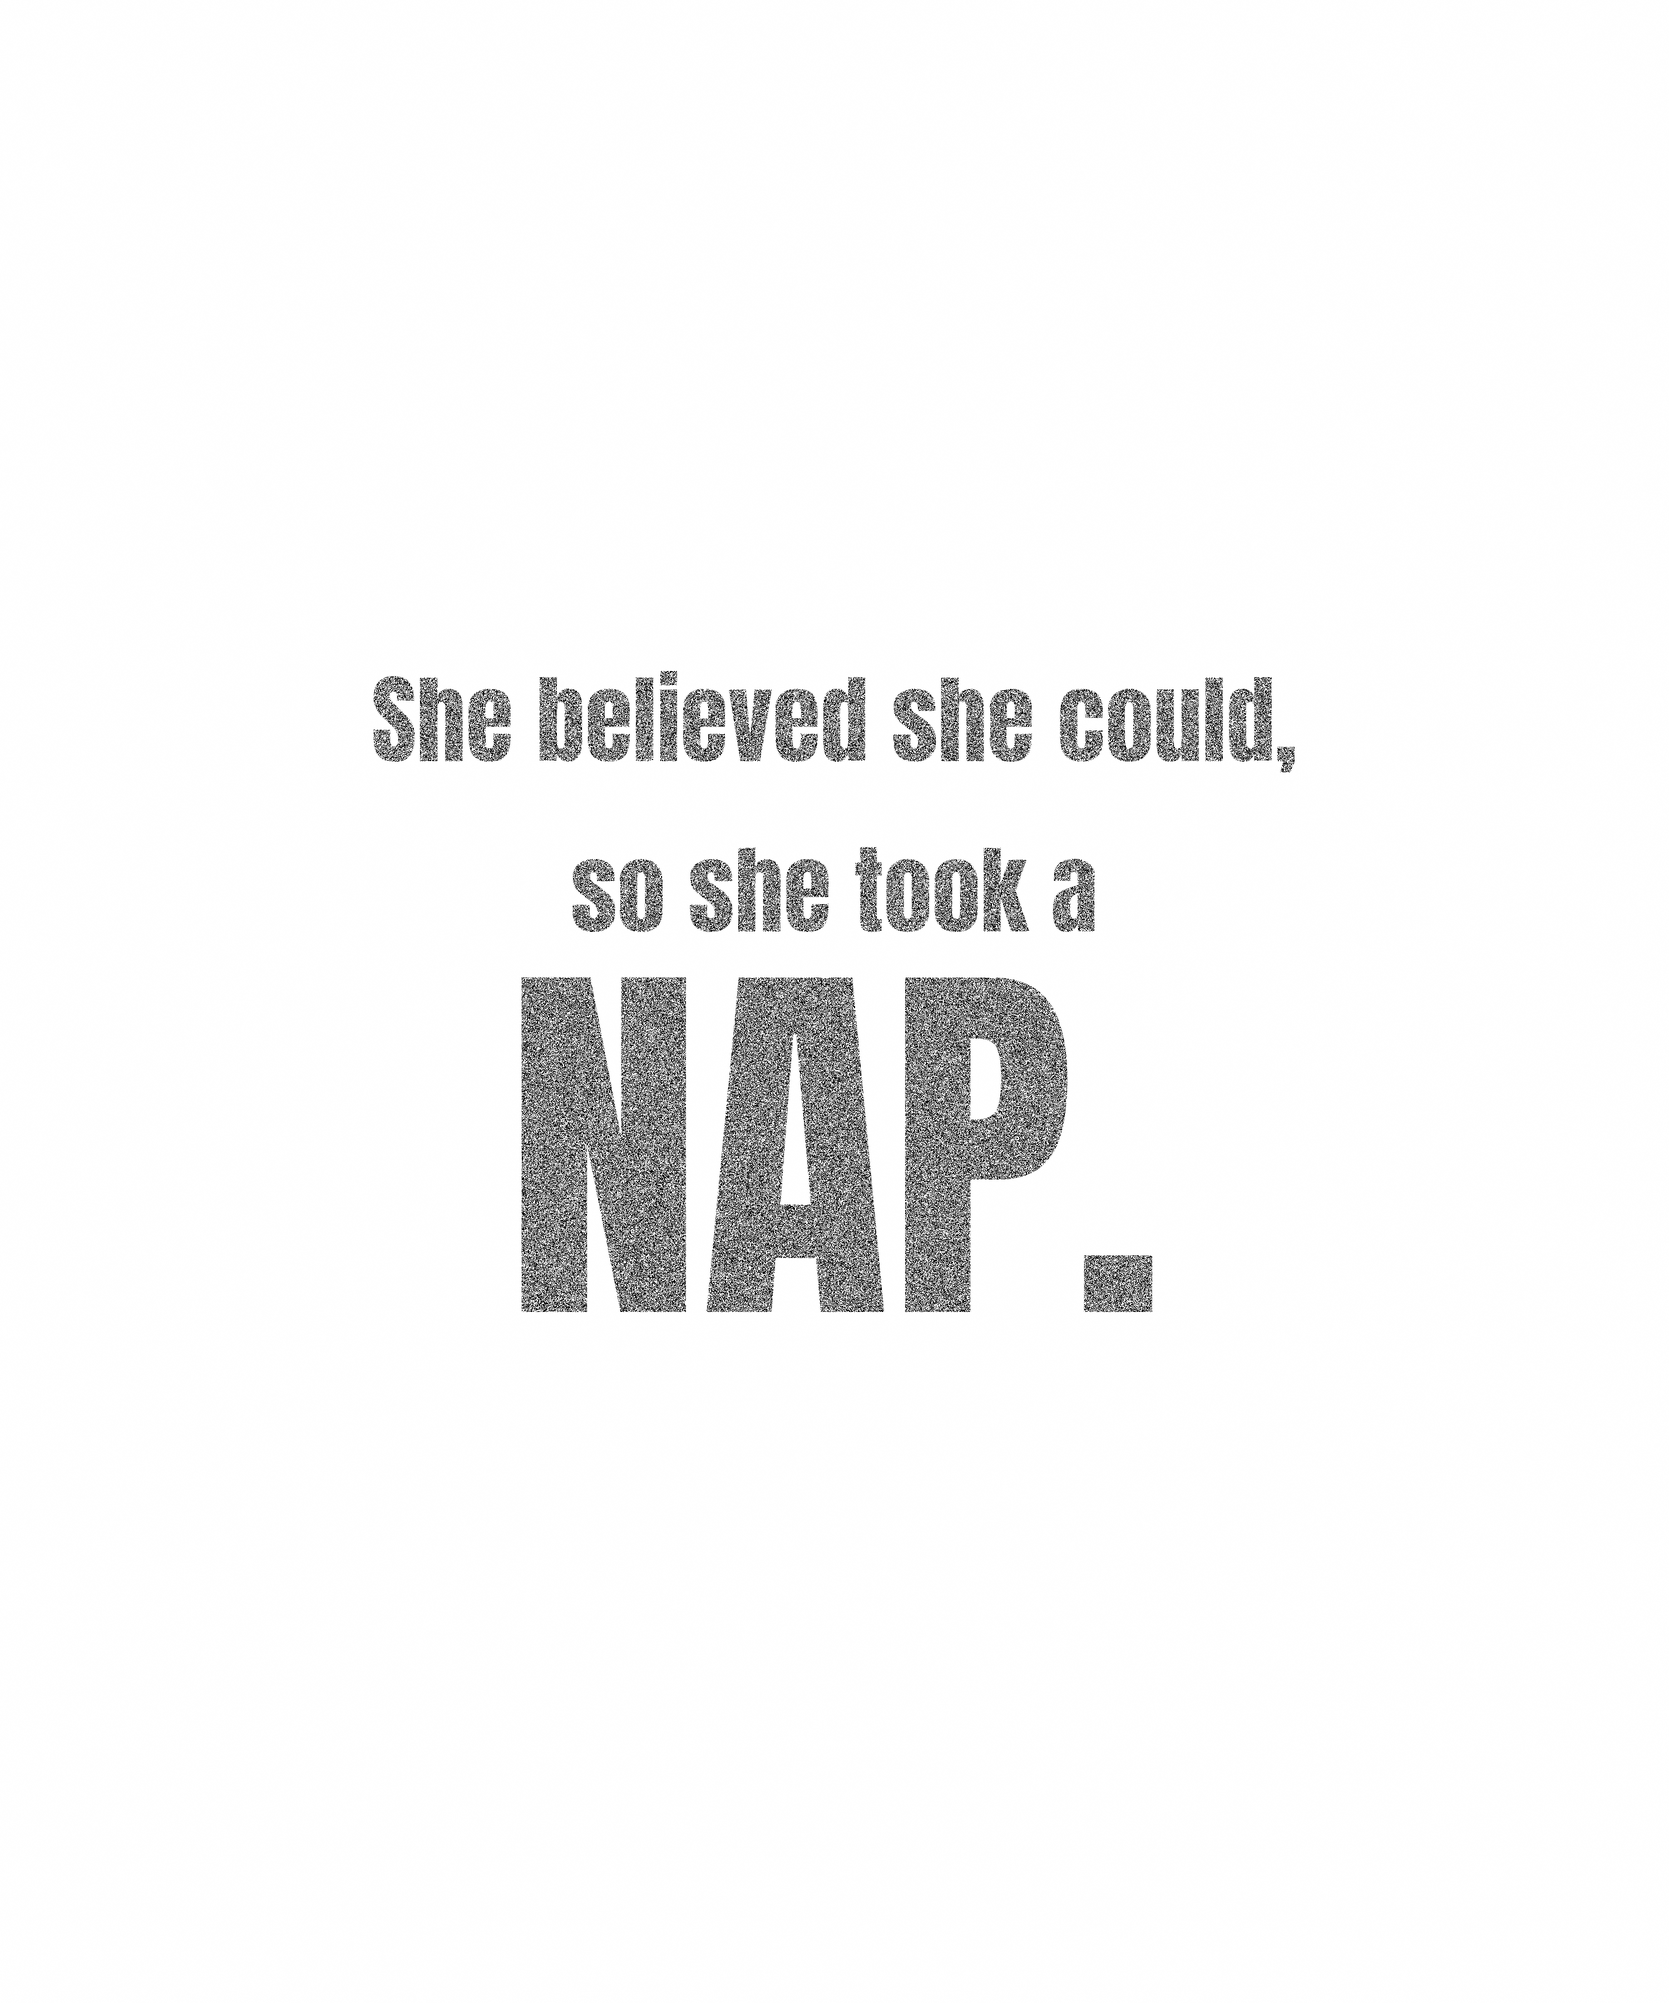
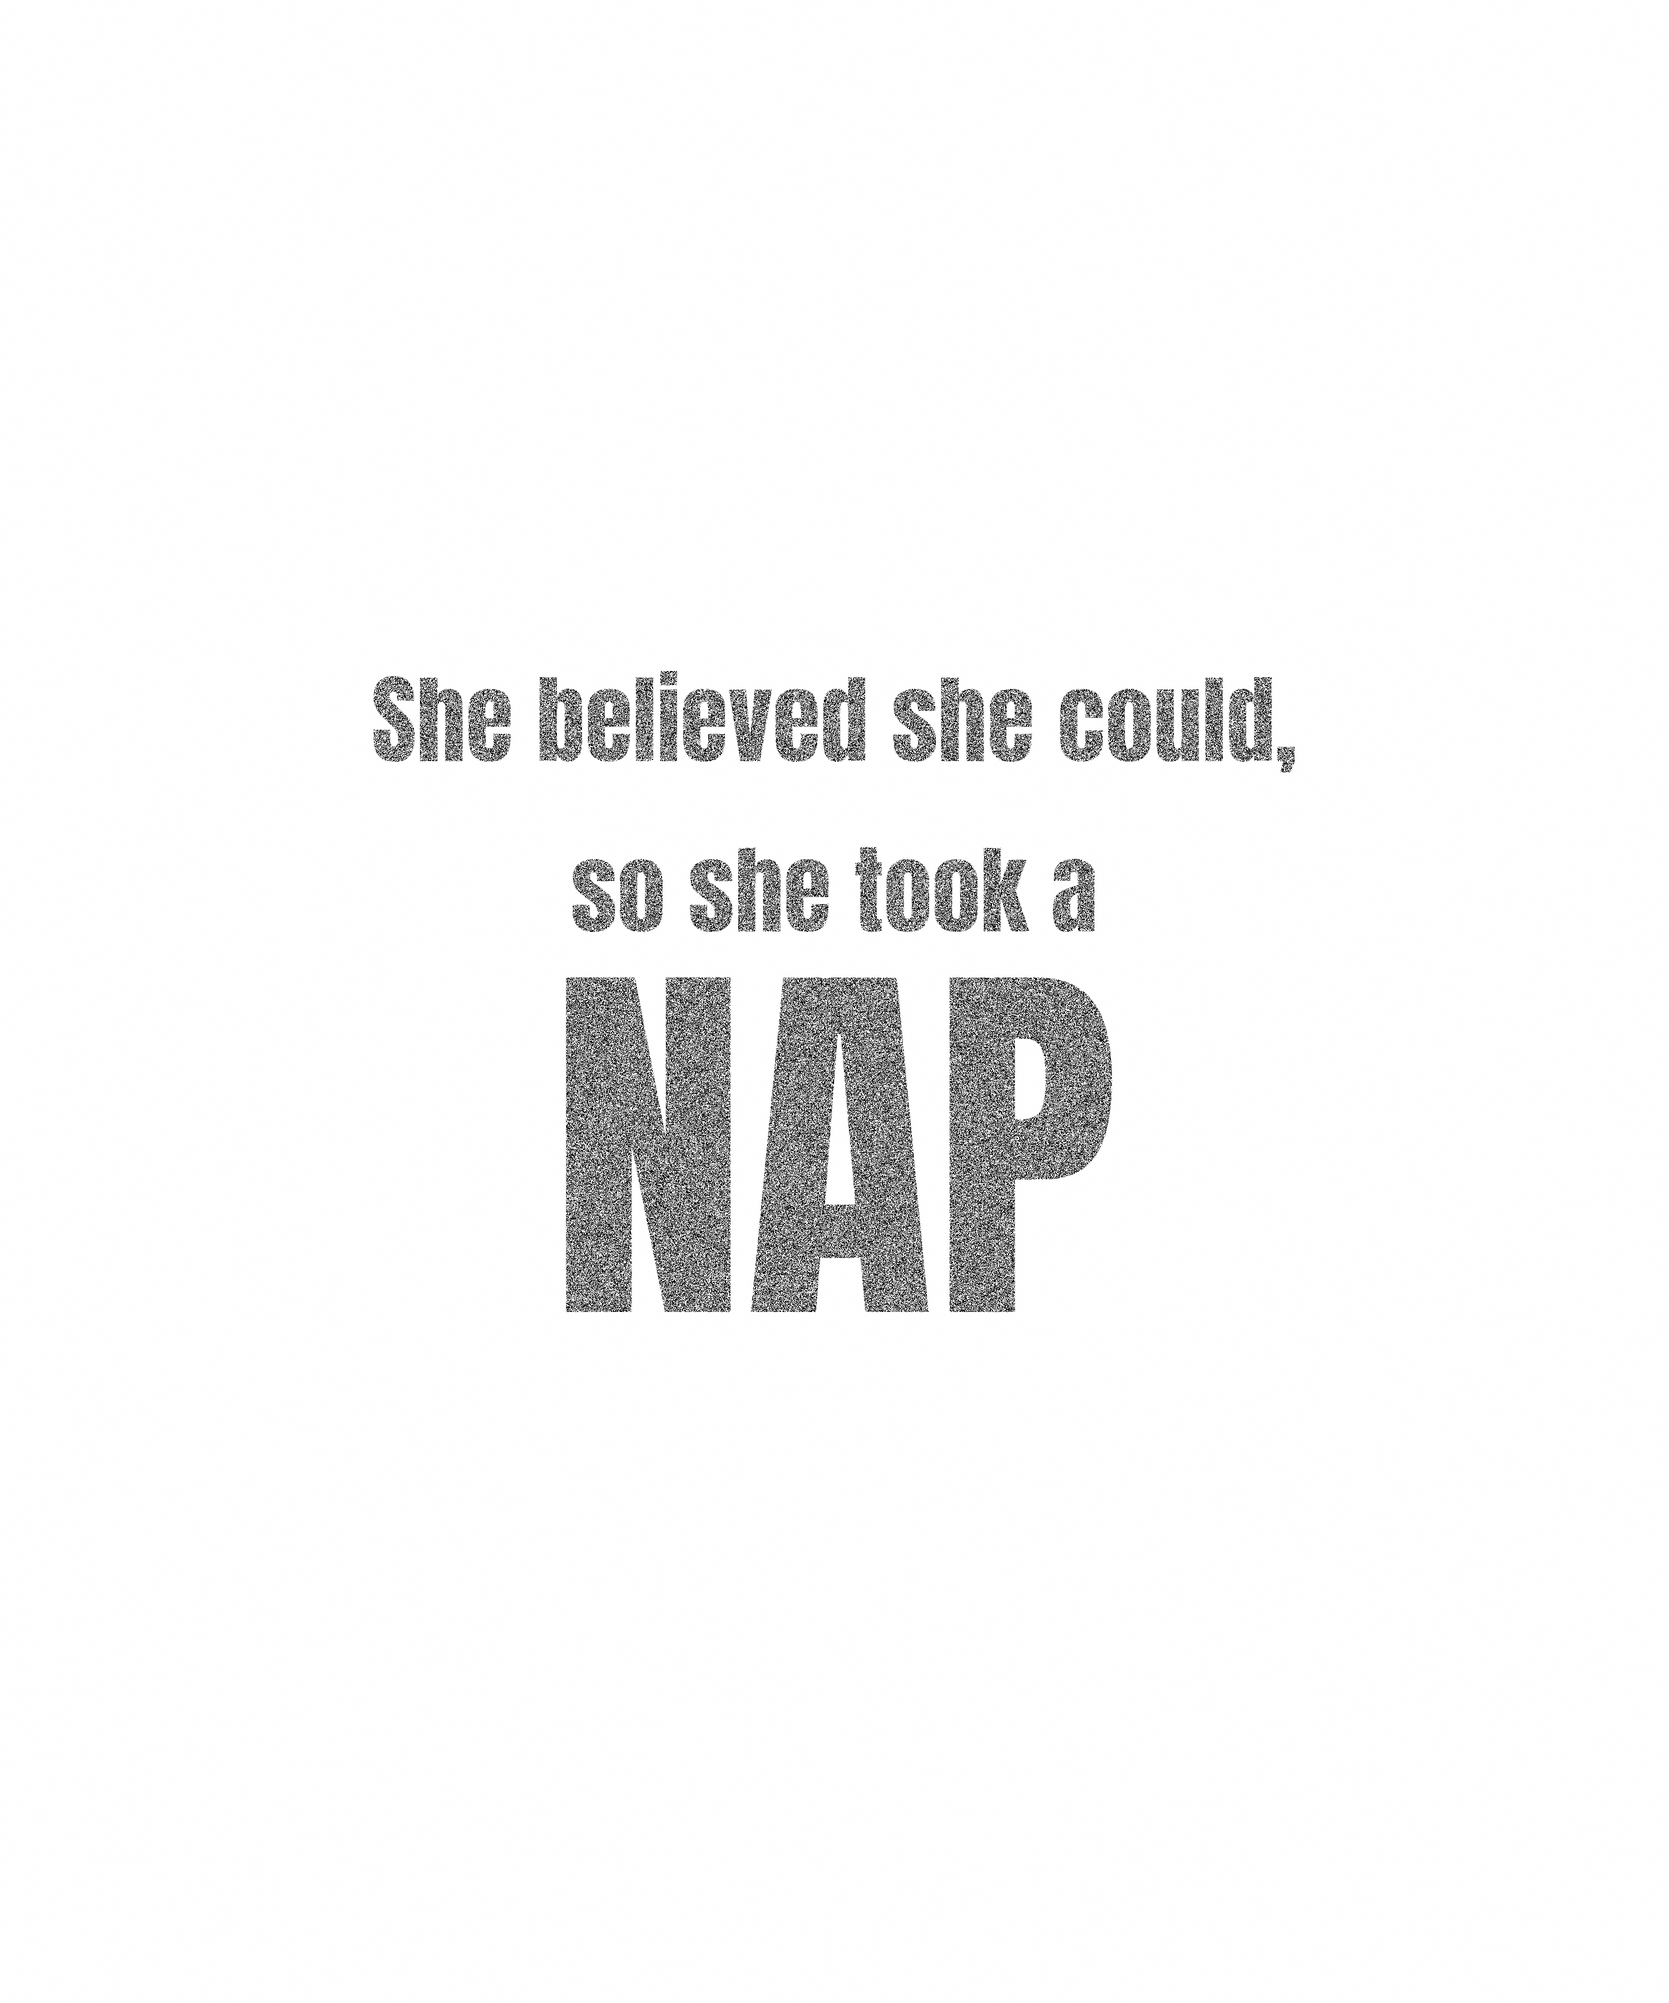
fix(designs): no periods on any shirt — print fix + future-proof (#7)
* fix(designs): remove stray floating period in back prints (products 18,30,31,32,34,38)

The slogan-ending period was stored in typography_after as a lone "." which
generateBack rendered as its own centered line, printing a stray dot floating
below the keyword on every garment (all colors). Reported on product 31
(You're prettier when you're COMFORTABLE) — the period now lives on the keyword
itself (COMFORTABLE.) and typography_after is empty.

- DB: moved trailing period into typography_big, cleared typography_after for
  the 6 affected active products (18,30,31,32,34,38).
- generate-designs.js: fixed hardcoded entries #17/#18 so the GHA pipeline can
  never reintroduce the floating dot.
- Regenerated all 12 affected back_design PNGs (white + dark).
- Bumped DESIGN_VERSION 2026052301 -> 2026062101 in create-gelato-order.js and
  download-gelato-mockups.js so Gelato re-fetches the corrected print files
  instead of serving the cached defective version.

Claude-Session: https://claude.ai/code/session_018TqsqbVaFt2f9WQ44aTe5b

* fix(designs): no periods on any shirt + future-proof + review page

Per oren 2026-06-21: DUBIS back prints must never carry a period.

- generate-designs.js: new stripPeriods() applied at the render chokepoint in
  generateBack() — every product (hardcoded, DB-fetched, or future AI slogan)
  now prints period-free regardless of source data. This also makes the
  original "stray floating dot" bug structurally impossible.
[…]

Changed region(s): [[0.31, 0.4667, 0.682, 0.6533], [0.651, 0.6222, 0.713, 0.6533]]

diff --git a/review/no-periods.html b/review/no-periods.html
@@ -1,0 +1,107 @@
+<!DOCTYPE html>
+<html lang="he" dir="rtl">
+<head>
+<meta charset="UTF-8">
+<meta name="viewport" content="width=device-width, initial-scale=1.0">
+<meta name="robots" content="noindex,nofollow">
+<title>DUBIS — מוצרים מתוקנים (ללא נקודות)</title>
+<style>
+  :root{ --charcoal:#2C2C2C; --honey:#C17E3A; --cream:#F5F0E8; }
+  *{ box-sizing:border-box; }
+  body{
+    margin:0; font-family:'Segoe UI',Arial,sans-serif; background:#1a1a1a;
+    color:var(--cream); direction:rtl; text-align:right; line-height:1.5;
+  }
+  header{
+    padding:32px 24px 20px; background:linear-gradient(180deg,#222,#1a1a1a);
+    border-bottom:3px solid var(--honey);
+  }
+  header h1{ margin:0 0 8px; font-size:26px; }
+  header p{ margin:4px 0; color:#bbb; font-size:15px; }
+  .ver{ color:var(--honey); font-weight:bold; }
+  .legend{
+    max-width:1100px; margin:18px auto 0; padding:0 24px; color:#ccc; font-size:14px;
+  }
+  .grid{
+    max-width:1100px; margin:24px auto 60px; padding:0 24px;
+    display:grid; grid-template-columns:1fr; gap:28px;
+  }
+  .card{
+    background:#262626; border:1px solid #3a3a3a; border-radius:14px; overflow:hidden;
+  }
+  .card .meta{ padding:16px 20px; border-bottom:1px solid #3a3a3a; }
+  .card .meta .id{ color:var(--honey); font-weight:bold; font-size:13px; letter-spacing:.5px; }
+  .card .meta .slogan{ font-size:19px; font-weight:600; margin-top:4px; }
+  .card .meta .type{ color:#999; font-size:13px; margin-top:4px; }
+  .swatches{ display:grid; grid-template-columns:1fr 1fr; gap:0; }
+  .sw{ position:relative; aspect-ratio:5/6; display:flex; align-items:center; justify-content:center; }
+  .sw.light{ background:var(--cream); }
+  .sw.dark{ background:var(--charcoal); }
+  .sw img{ width:92%; height:92%; object-fit:contain; }
+  .sw .tag{
+    position:absolute; bottom:8px; inset-inline-start:10px; font-size:11px;
+    padding:3px 8px; border-radius:20px; background:rgba(0,0,0,.35); color:#fff;
+  }
+  .sw.light .tag{ background:rgba(0,0,0,.55); }
+  @media (max-width:560px){ .swatches{ grid-template-columns:1fr; } }
+  footer{ max-width:1100px; margin:0 auto 50px; padding:0 24px; color:#888; font-size:13px; }
+</style>
+</head>
+<body>
+<header>
+  <h1>✅ מוצרים מתוקנים — ללא נקודות על החולצה</h1>
+  <p>כל הנקודות הוסרו מהדפסות הגב. מקור הבעיה: הנקודה רונדרה כשורה נפרדת וצפה מתחת לטקסט.</p>
+  <p>גרסת עיצוב: <span class="ver">2026062101</span> · 10 מוצרים · כל צבע (כהה + בהיר)</p>
+</header>
+
+<div class="legend">
+  כל מוצר מוצג בשני רקעים: <b>בהיר</b> (קרם — טקסט כהה) ו־<b>כהה</b> (פחם — טקסט לבן),
+  בדיוק כפי שיודפס על הבד. אלה קבצי ההדפסה האמיתיים (<code>designs/back_design_*.png</code>).
+</div>
+
+<div class="grid" id="grid"></div>
+
+<footer>
+  הערה: זהו תצוגת קבצי ההדפסה המתוקנים. תמונות הקטלוג באתר (מוקאפים אמיתיים מגלאטו)
+  מתרעננות בנפרד דרך ה-pipeline לאחר מיזוג ל-main.
+</footer>
+
+<script>
+  const V = '2026062101';
+  const products = [
+    { id:1,  slogan:"I'm not fat, I'm a LIMITED edition", type:"חולצה" },
+    { id:4,  slogan:"I survived — That's enough",         type:"חולצה" },
+    { id:8,  slogan:"Born to NAP, forced to work",        type:"חולצה" },
+    { id:11, slogan:"She believed she could, so she took a NAP", type:"חולצה" },
+    { id:18, slogan:"Unfashionably COMFORTABLE",          type:"חולצה" },
+    { id:30, slogan:"Still here, somehow CONGRATS",        type:"ארוכת שרוול" },
+    { id:31, slogan:"You're prettier when you're COMFORTABLE", type:"חולצה (אשתך הזמינה)" },
+    { id:32, slogan:"Activewear for the INACTIVE",         type:"חולצה" },
+    { id:34, slogan:"Still waiting for my BREAK",          type:"ארוכת שרוול" },
+    { id:38, slogan:"Sleeves were OPTIONAL",              type:"גופייה" },
+  ];
+  const grid = document.getElementById('grid');
+  for (const p of products) {
+    const card = document.createElement('div');
+    card.className = 'card';
+    card.innerHTML = `
+      <div class="meta">
+        <div class="id">מוצר #${p.id}</div>
+        <div class="slogan">${p.slogan}</div>
+        <div class="type">${p.type}</div>
+      </div>
+      <div class="swatches">
+        <div class="sw light">
+          <img loading="lazy" src="/designs/back_design_${p.id}_dark.png?v=${V}" alt="הדפסה כהה על בד בהיר">
+          <span class="tag">בד בהיר · טקסט כהה</span>
+        </div>
+        <div class="sw dark">
+          <img loading="lazy" src="/designs/back_design_${p.id}_white.png?v=${V}" alt="הדפסה לבנה על בד כהה">
+          <span class="tag">בד כהה · טקסט לבן</span>
+        </div>
+      </div>`;
+    grid.appendChild(card);
+  }
+</script>
+</body>
+</html>

diff --git a/supabase/functions/agents/index.ts b/supabase/functions/agents/index.ts
@@ -32,6 +32,19 @@ function json(data: unknown, status = 200): Response {
   });
 }
 
+// ── No periods on the shirt (oren 2026-06-21) ──────────────────────────────
+// DUBIS back prints never carry a period. Strip dots from any AI-generated
+// typography before it lands in dubis_products so the stored data matches the
+// period-free print. (The print file itself is independently guaranteed
+// period-free by stripPeriods() in scripts/generate-designs.js — this keeps the
+// DB clean too, e.g. for the admin "edit slogan" view.) Commas, ?, ! are kept.
+function stripSloganDots(s: unknown): string {
+  return String(s || '')
+    .replace(/\./g, '')
+    .replace(/[ \t]{2,}/g, ' ')
+    .trim();
+}
+
 // ── SELLABLE_TYPES — the ONE contract for "what DUBIS may create" ──────────
 // Single source of truth for BOTH product pools (admin "+ סלוגן חדש"
 // suggestions AND the weekly auto-creator). Before this contract there were two
@@ -3859,9 +3872,12 @@ Generate 3 slogan proposals. Return ONLY valid JSON array. The "colors" field MU
           description_en: s.description_en || '',
           description_he: s.description_he || '',
           colors: chosenColors,
-          typography_small: s.text_before || '',
-          typography_big: s.power_word || '',
-          typography_after: s.text_after || '',
+          // DUBIS shirts never carry a period on the print (oren 2026-06-21).
+          // Strip dots here so DB data matches the period-free render; the print
+          // itself is also guaranteed period-free by scripts/generate-designs.js.
+          typography_small: stripSloganDots(s.text_before),
+          typography_big: stripSloganDots(s.power_word),
+          typography_after: stripSloganDots(s.text_after),
           typography_layout: s.layout || 'top-bottom',
           source: 'ai-generated',
           active: false,
@@ -6353,7 +6369,7 @@ ${items.join('\n')}
     const { data: product, error: insErr } = await sb.from('dubis_products').insert({
       slogan: finalSlogan, clothing_type: dbType, category: genderKey, gender: slot.gender,
       price_usd: W_PRICE_MAP[dbType] || 28, description_en: g.description_en || '', description_he: g.description_he || '',
-      colors: slotColors, typography_small: g.text_before || '', typography_big: g.power_word || '', typography_after: g.text_after || '',
+      colors: slotColors, typography_small: stripSloganDots(g.text_before), typography_big: stripSloganDots(g.power_word), typography_after: stripSloganDots(g.text_after),
       typography_layout: g.layout || 'top-bottom', source: 'ai-generated', active: false, auto_publish: true,
     }).select('id').single();
     if (insErr || !product) return json({ error: 'insert_failed', detail: insErr?.message }, 500);

diff --git a/scripts/generate-designs.js b/scripts/generate-designs.js
@@ -89,9 +89,9 @@ const PRODUCTS = [
   { id: 16, phrase: "My goal: minimal EXISTENCE.",       layout: 'top-bottom',
     small: "My goal: minimal",     big: "EXISTENCE.",  after: ""                },
   { id: 17, phrase: "Experienced in EXHAUSTION.",        layout: 'top-bottom',
-    small: "Experienced in",       big: "EXHAUSTION",  after: "."                },
+    small: "Experienced in",       big: "EXHAUSTION.", after: ""                 },
   { id: 18, phrase: "Unfashionably COMFORTABLE.",        layout: 'top-bottom',
-    small: "Unfashionably",        big: "COMFORTABLE", after: "."                },
+    small: "Unfashionably",        big: "COMFORTABLE.", after: ""                },
 ];
 
 // ---------------------------------------------------------------------------
@@ -100,6 +100,24 @@ const PRODUCTS = [
 function setFont(ctx, size) {
   // Impact is inherently bold/condensed — no weight needed
   ctx.font = `${size}px "${FONT_FAMILY}"`;
+}
+
+/**
+ * Strip ALL periods from printed slogan text (oren directive 2026-06-21).
+ * DUBIS shirts never carry a period on the back print. This is enforced at the
+ * render chokepoint so it holds for EVERY product — hardcoded, DB-fetched, or a
+ * future AI-generated slogan — regardless of what the source data contains.
+ * The original "stray floating dot" bug (lone "." in typography_after rendered
+ * as its own centered line) is also impossible once periods never reach canvas.
+ * Keeps newlines; collapses any whitespace a removed period leaves behind.
+ */
+function stripPeriods(s) {
+  return (s || '')
+    .replace(/\./g, '')
+    .replace(/[ \t]{2,}/g, ' ')
+    .replace(/ +\n/g, '\n')
+    .replace(/\n +/g, '\n')
+    .trim();
 }
 
 /**
@@ -255,6 +273,15 @@ const GAP       = 180;  // px of clear space between adjacent cap-blocks
                         // breathe like 3-line layouts.
 
 function generateBack(product, color, outPath) {
+  // No periods on the printed shirt — sanitize every text block up front so the
+  // rest of the layout math operates on period-free strings (oren 2026-06-21).
+  product = {
+    ...product,
+    small: stripPeriods(product.small),
+    big:   stripPeriods(product.big),
+    after: stripPeriods(product.after),
+  };
+
   const canvas = createCanvas(BACK_W, BACK_H);
   const ctx    = canvas.getContext('2d');
 

diff --git a/api/create-gelato-order.js b/api/create-gelato-order.js
@@ -29,7 +29,7 @@ if (GELATO_DRAFT_MODE) {
 // Gelato CDN caches by full URL; same URL = same cached file. Without this
 // param, re-uploading a fixed PNG has no effect — Gelato keeps serving the
 // broken cached version. Set via env or hardcode to a date tag.
-const DESIGN_VERSION = process.env.DESIGN_VERSION || '2026052301';
+const DESIGN_VERSION = process.env.DESIGN_VERSION || '2026062101';
 
 // ─────────────────────────────────────────────────────────────────
 // GELATO TEMPLATES — type+cut → Gelato catalog config

diff --git a/scripts/download-gelato-mockups.js b/scripts/download-gelato-mockups.js
@@ -58,7 +58,7 @@ const GELATO_API_BASE = 'https://order.gelatoapis.com';
 const DESIGN_BASE_URL = 'https://www.dubis.net/designs';
 // Bumped 2026-05-18 after the product-12 COFFEE-emphasis design fix landed.
 // Always bump after deploying new design files so Gelato re-fetches (cache-buster).
-const DESIGN_VERSION  = '2026052301';
+const DESIGN_VERSION  = '2026062101';
 const OUT_DIR         = process.env.MOCKUPS_OUT_DIR
                      || path.join(__dirname, '..', 'images', 'gelato-mockups');
 const PROGRESS_FILE   = path.join(OUT_DIR, 'progress.json');
